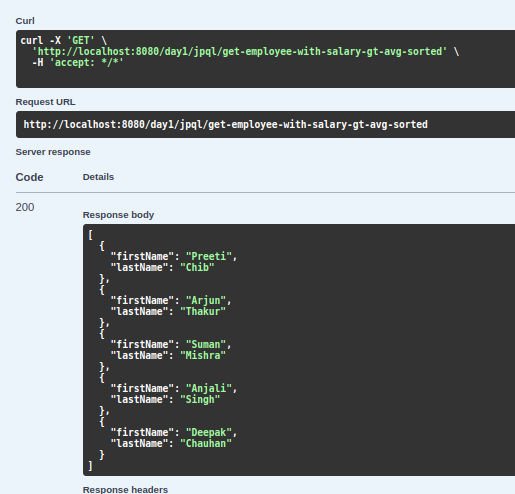
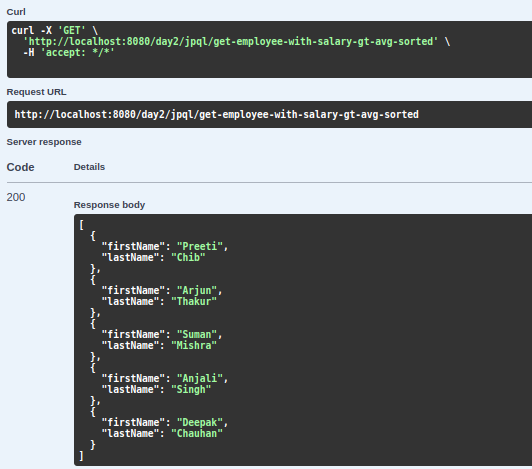
jpa day2

Changed region(s): [[0.0, 0.0, 1.0, 0.4478], [0.1243, 0.4179, 1.0, 1.0]]

diff --git a/src/main/java/com/bootcamp/jpabootcamp/entity/Payment.java b/src/main/java/com/bootcamp/jpabootcamp/entity/Payment.java
@@ -1,0 +1,56 @@
+package com.bootcamp.jpabootcamp.entity;
+
+
+import jakarta.persistence.*;
+
+import java.time.LocalDateTime;
+
+@Inheritance(strategy = InheritanceType.SINGLE_TABLE)
+@DiscriminatorColumn(name = "pmode",discriminatorType = DiscriminatorType.STRING)
+@Entity
+public abstract class Payment {
+
+    @Id
+    @GeneratedValue(strategy = GenerationType.AUTO)
+    private Long id;
+
+    private Double amount;
+
+    private Boolean status;
+
+    private LocalDateTime timestamp;
+
+    public Payment(){}
+
+    public Long getId() {
+        return id;
+    }
+
+    public void setId(Long id) {
+        this.id = id;
+    }
+
+    public Double getAmount() {
+        return amount;
+    }
+
+    public void setAmount(Double amount) {
+        this.amount = amount;
+    }
+
+    public Boolean getStatus() {
+        return status;
+    }
+
+    public void setStatus(Boolean status) {
+        this.status = status;
+    }
+
+    public LocalDateTime getTimestamp() {
+        return timestamp;
+    }
+
+    public void setTimestamp(LocalDateTime timestamp) {
+        this.timestamp = timestamp;
+    }
+}

diff --git a/src/main/java/com/bootcamp/jpabootcamp/entity/EmbeddedEmployee.java b/src/main/java/com/bootcamp/jpabootcamp/entity/EmbeddedEmployee.java
@@ -1,0 +1,19 @@
+package com.bootcamp.jpabootcamp.entity;
+
+import jakarta.persistence.*;
+
+
+
+@Entity
+public class EmbeddedEmployee {
+    @Id
+    @GeneratedValue(strategy = GenerationType.IDENTITY)
+    private Long id;
+
+    private String firstName;
+    private String lastName;
+    private int age;
+
+    @Embedded
+    private Salary salary;
+}

diff --git a/src/main/java/com/bootcamp/jpabootcamp/entity/Avenger.java b/src/main/java/com/bootcamp/jpabootcamp/entity/Avenger.java
@@ -1,0 +1,14 @@
+package com.bootcamp.jpabootcamp.entity;
+
+import jakarta.persistence.*;
+
+@Entity
+@Inheritance(strategy = InheritanceType.TABLE_PER_CLASS)
+public abstract class Avenger  {
+
+    @Id
+    @GeneratedValue(strategy = GenerationType.AUTO)
+    private Long id;
+    private String name;
+    private String universe;
+}

diff --git a/src/main/java/com/bootcamp/jpabootcamp/entity/BankAccount.java b/src/main/java/com/bootcamp/jpabootcamp/entity/BankAccount.java
@@ -1,0 +1,12 @@
+package com.bootcamp.jpabootcamp.entity;
+
+import jakarta.persistence.DiscriminatorValue;
+import jakarta.persistence.Entity;
+
+@Entity
+@DiscriminatorValue(value = "bank")
+public class BankAccount extends Payment{
+    private String accountNumber;
+    private String bankName;
+    private String ifscCode;
+}

diff --git a/src/main/java/com/bootcamp/jpabootcamp/entity/Vehicle.java b/src/main/java/com/bootcamp/jpabootcamp/entity/Vehicle.java
@@ -1,0 +1,14 @@
+package com.bootcamp.jpabootcamp.entity;
+
+
+import jakarta.persistence.*;
+
+@Entity
+@Inheritance(strategy = InheritanceType.JOINED)
+public abstract class Vehicle {
+    @Id
+    @GeneratedValue(strategy = GenerationType.AUTO)
+    private Long id;
+    private String brand;
+    private String model;
+}

diff --git a/src/main/java/com/bootcamp/jpabootcamp/entity/Car.java b/src/main/java/com/bootcamp/jpabootcamp/entity/Car.java
@@ -1,0 +1,12 @@
+package com.bootcamp.jpabootcamp.entity;
+
+
+import jakarta.persistence.Entity;
+import jakarta.persistence.PrimaryKeyJoinColumn;
+
+@Entity
+//@PrimaryKeyJoinColumn(columnDefinition = "id")
+public class Car extends Vehicle {
+    private Integer seatingCapacity;
+    private String fuelType;
+}

diff --git a/src/main/java/com/bootcamp/jpabootcamp/controller/EmployeeDay2.java b/src/main/java/com/bootcamp/jpabootcamp/controller/EmployeeDay2.java
@@ -15,8 +15,8 @@ import java.util.List;
 import java.util.Map;
 
 @RestController
-@RequestMapping("/day1")
-@Tag(name = "Day1")
+@RequestMapping("/day2")
+@Tag(name = "Day - 2")
 public class EmployeeDay2 {
 
     // Avoided service layer to be more focused on Spring jpa data functionalities

diff --git a/src/main/java/com/bootcamp/jpabootcamp/entity/Bike.java b/src/main/java/com/bootcamp/jpabootcamp/entity/Bike.java
@@ -1,0 +1,10 @@
+package com.bootcamp.jpabootcamp.entity;
+
+import jakarta.persistence.Entity;
+import jakarta.persistence.PrimaryKeyJoinColumn;
+
+@Entity
+//@PrimaryKeyJoinColumn(columnDefinition = "id")
+public class Bike extends Vehicle {
+    private Integer engineCapacity;
+}

diff --git a/src/main/java/com/bootcamp/jpabootcamp/entity/Salary.java b/src/main/java/com/bootcamp/jpabootcamp/entity/Salary.java
@@ -1,0 +1,12 @@
+package com.bootcamp.jpabootcamp.entity;
+
+import jakarta.persistence.Embeddable;
+
+@Embeddable
+public class Salary {
+
+    private double basicSalary;
+    private double bonusSalary;
+    private double taxAmount;
+    private double specialAllowanceSalary;
+}

diff --git a/src/main/java/com/bootcamp/jpabootcamp/entity/CardPayment.java b/src/main/java/com/bootcamp/jpabootcamp/entity/CardPayment.java
@@ -1,0 +1,11 @@
+package com.bootcamp.jpabootcamp.entity;
+
+
+import jakarta.persistence.DiscriminatorValue;
+import jakarta.persistence.Entity;
+
+@Entity
+@DiscriminatorValue(value = "card")
+public class CardPayment extends Payment{
+    private String cardNumber;
+}

diff --git a/src/main/java/com/bootcamp/jpabootcamp/entity/UpiPayment.java b/src/main/java/com/bootcamp/jpabootcamp/entity/UpiPayment.java
@@ -1,0 +1,12 @@
+package com.bootcamp.jpabootcamp.entity;
+
+
+import jakarta.persistence.DiscriminatorValue;
+import jakarta.persistence.Entity;
+
+@Entity
+@DiscriminatorValue(value = "upi")
+public class UpiPayment extends Payment{
+
+    private String upiId;
+}

diff --git a/src/main/java/com/bootcamp/jpabootcamp/entity/Thor.java b/src/main/java/com/bootcamp/jpabootcamp/entity/Thor.java
@@ -1,0 +1,9 @@
+package com.bootcamp.jpabootcamp.entity;
+
+import jakarta.persistence.Entity;
+
+@Entity
+public class Thor extends Avenger {
+    private String hammerType;
+    private boolean canSummonLightning;
+}
